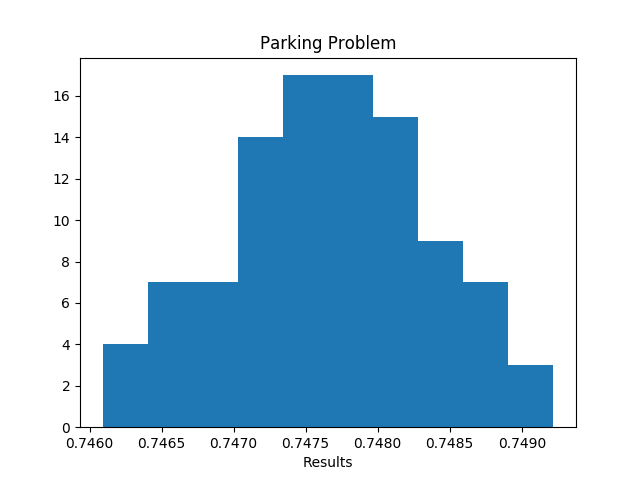
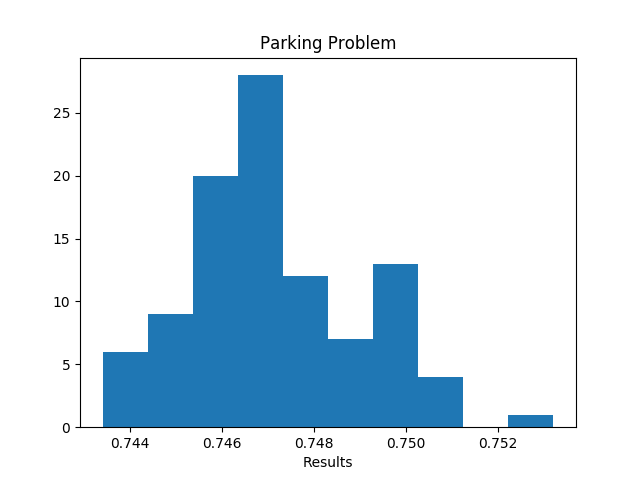
cleaned up some code

diff --git a/src/simulation_10/parking_problem_03.py b/src/simulation_10/parking_problem_03.py
@@ -9,7 +9,7 @@ def parking_problem(length):
 
     def find_spots(start, end):
         spot = np.random.uniform(start, end - 1.0)
-        spots.append((spot, spot + 1.0))
+        spots.append(spot)
 
         if spot - start >= 1.0:
             find_spots(start, spot)
@@ -58,7 +58,6 @@ def print_results(results):
 
 def plot_results(results):
     plt.clf()
-    # plt.figure(1, facecolor = 'w')
     plt.hist(results)
     plt.title('Parking Problem')
     plt.xlabel('Results')
